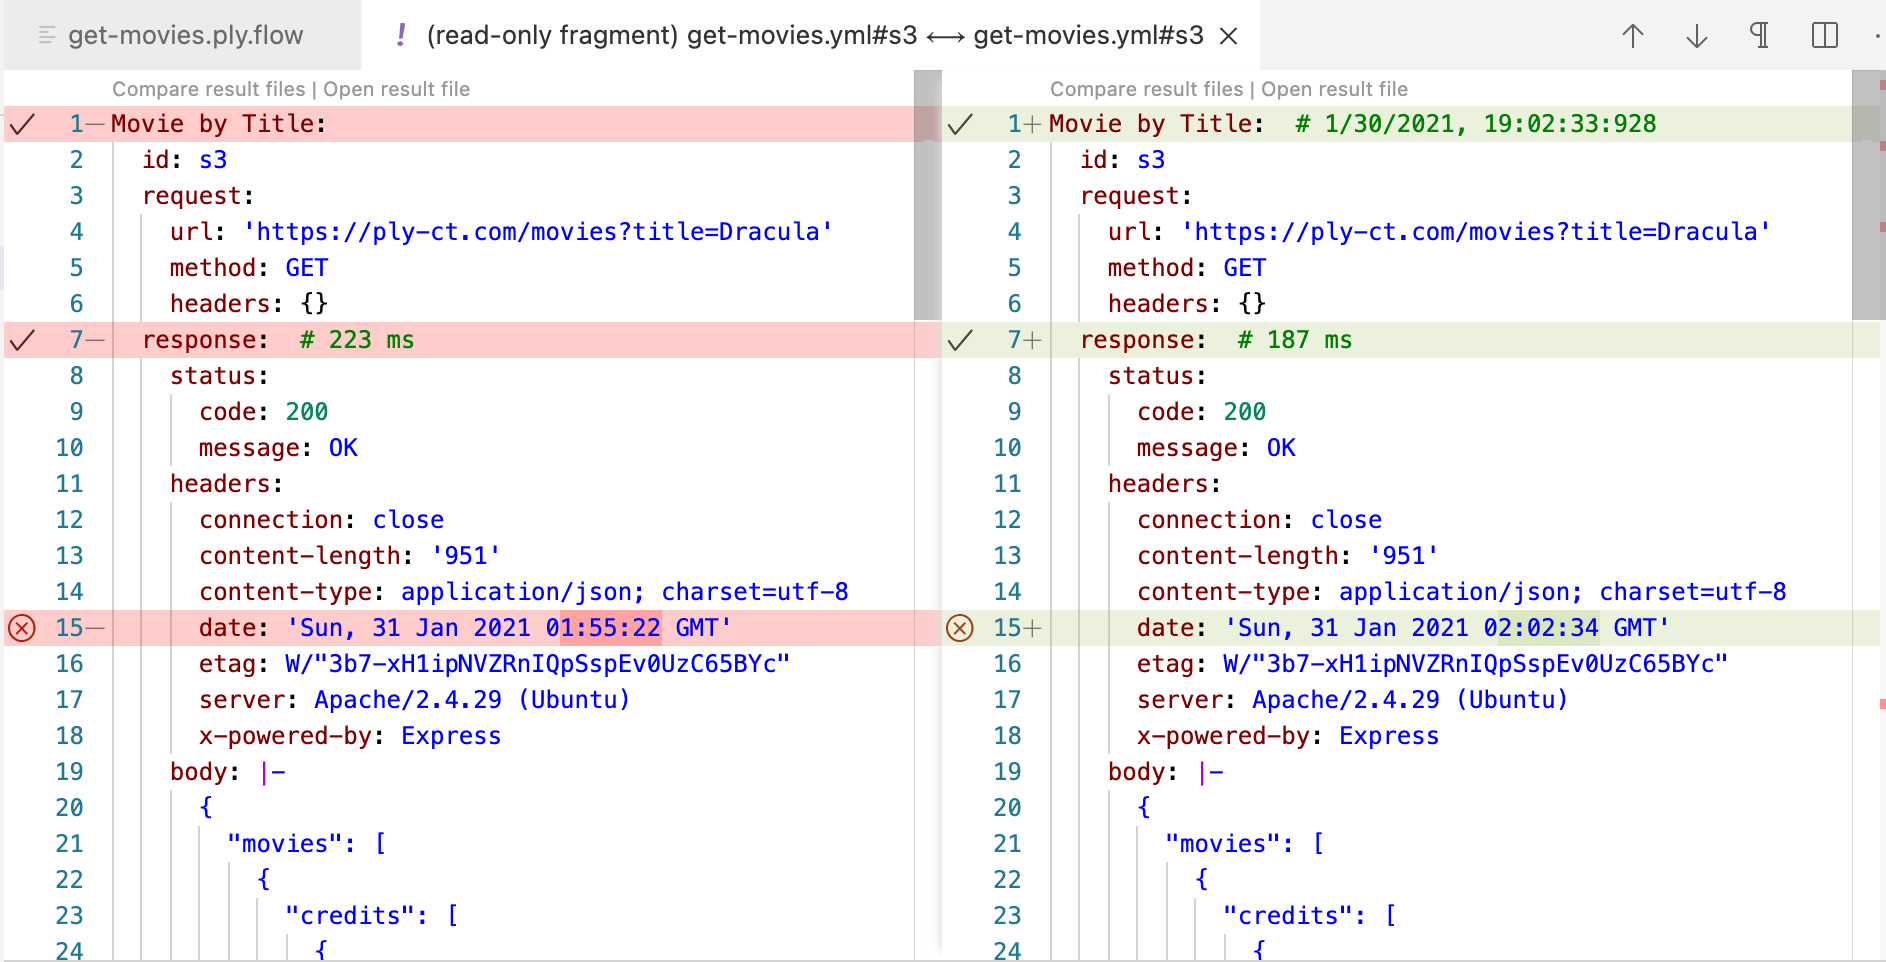
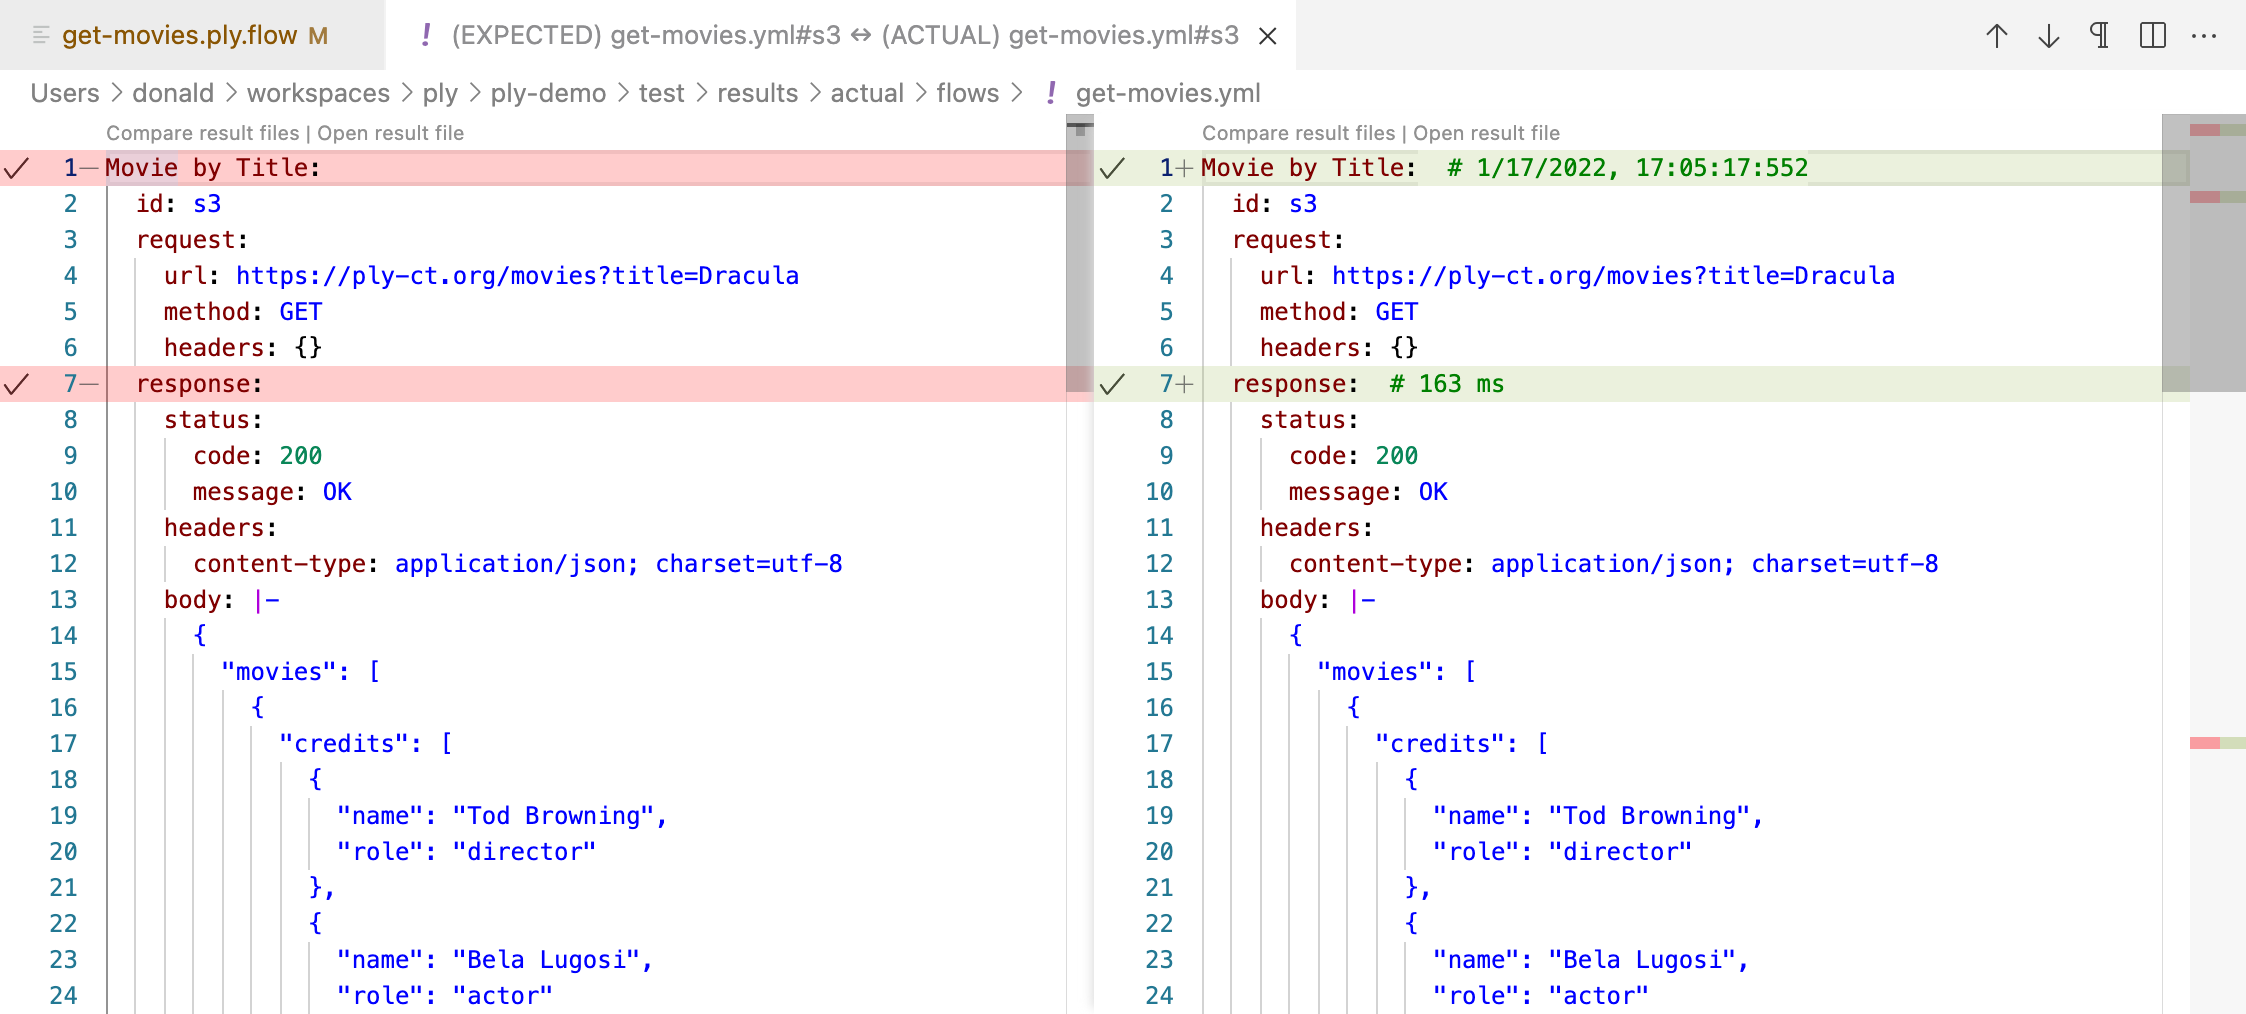
docs

Changed region(s): [[0.0, 0.0, 1.0, 1.0], [0.8918, 0.0312, 0.9841, 0.0624], [0.9533, 0.7173, 1.0, 0.7484]]

diff --git a/docs/_includes/header.html b/docs/_includes/header.html
@@ -9,7 +9,7 @@
     <a href="{{site.baseurl}}/why-ply" {% if navgroup == 'why-ply.html' %}class="active-group"{% endif %}>Why Ply?</a>
     <a href="{{site.baseurl}}/topics/intro" {% if navgroup == 'topics' and navpage == 'intro' %}class="active-group" {% endif %}>Getting Started</a>
     <a href="{{site.baseurl}}/topics/install" {% if navgroup == 'topics' and navpage == 'install' %}class="active-group"{% endif %}>Installation</a>
-    <a href="{{site.baseurl}}/topics/flows" {% if navgroup == 'topics' and navpage != 'intro' and navpage != 'install' %}class="active-group"{% endif %}>Guide</a>
+    <a href="{{site.baseurl}}/topics/requests" {% if navgroup == 'topics' and navpage != 'intro' and navpage != 'install' %}class="active-group"{% endif %}>Guide</a>
     <a href="{{site.baseurl}}/api" {% if navgroup == 'api.html' %}class="active-group"{% endif %}>API</a>
   </nav>
 

diff --git a/docs/topics/flows.md b/docs/topics/flows.md
@@ -14,7 +14,7 @@ layout: topic
 1. Expand the Flows group in Test Explorer, and you should see get-movies.ply.flow.
 
 ## Run your flow
-1. In Ply's flow diagram toolbar (or in the Test Explorer item hover menu), click the run icon:
+1. In Ply's flow diagram toolbar (or in the Test Explorer item hover menu), click the run icon:  
    <img src="../img/run.svg" alt="Run Icon" class="icon-img">  
    When prompted, select "Submit without verifying" (*Submit* is Ply-speak for "don't check run results").
 1. To show flow/step statuses, the diagram automatically switches to Inspect mode, indicated by this icon in the toolbar mode dropdown:
@@ -32,7 +32,7 @@ layout: topic
 
 ## Add a Request step to your flow
 The idea of Ply is to test an API by submitting HTTP requests and validating results. That's where Request steps come in.
-1. Switch back to Select mode using the flow toolbar dropdown:
+1. Switch back to Select mode using the flow toolbar dropdown:  
    <img src="../img/select.png" alt="Select Mode Icon" class="icon-img" style="width:22px;">
 1. Remove the link joining Start to Stop by selecting it and hitting the Delete key.
 1. From Ply's toolbox view to the right of our diagram, drag in the step that's labeled *Request*. Position it somewhere
@@ -41,11 +41,11 @@ The idea of Ply is to test an API by submitting HTTP requests and validating res
 1. If you double-click on the Request step somewhere other than its label, Ply Configurator pops up. After renaming, double-click "Movie by Title"
    (or right-click and select Configure). Then enter this for its URL: {% include copy_to_clipboard.html text="https://ply-ct.org/movies?title=Dracula" %}  
    <img src="../img/get-dracula.png" alt="Movie by Title" width="888px">  
-   This points to [ply-movies](https://github.com/ply-ct/ply-movies#readme), Ply's playground REST API containing a few hundred horror movies
+   This points to [ply-movies](https://github.com/ply-ct/ply-movies#readme), our playground REST API containing horror movies
    from the 1930s.
 
 ## Draw links between flow steps
-1. To draw new links, switch to Connect mode:
+1. To draw new links, switch to Connect mode:  
    <img src="../img/connect.png" alt="Connect Mode Icon" class="icon-img" style="width:22px;">  
 1. Then click/drag your mouse to draw a link between Start and "Movie by Title".
 1. Do the same between "Movie by Title" and Stop.
@@ -57,25 +57,17 @@ The idea of Ply is to test an API by submitting HTTP requests and validating res
    executed get-movies.ply.flow, created actual runtime results, and then copied those results to create an expected-results
    file before comparing.
 1. Double-click the "Movie by Title" step to inspect its Request and Response.
-1. Run your flow again - you won't get prompted since expected results now exist. This time the flow fails, and "Movie by Title"
-   is bordered in red.
-1. To understand why the test failed, right-click on "Movie by Title" and select "Compare Results":  
-   <img src="../img/get-movies-1-results.png" alt="get-movies-1 Results" width="943px">  
-   VS Code's diff editor indicates there are a few discrepancies between expected (on the left) versus actual (on the right)
-   results. Lines 1 and 7 both differ, but these differences are only comments; hence the checkmark in
-   the left gutter of the editor. However, line 15 has a significant difference in 'date' header values.
-1. To fix this, scroll to the top of the (left-hand) expected editor, and click the [Code Lens](https://code.visualstudio.com/blogs/2017/02/12/code-lens-roundup)
-   labeled "Open result file". (The full expected-results file includes outcomes for Start and Stop, so the line numbers are different from 
-   the "Movie by ID" result fragment.) Remove the 'date' header (all of line 18). In fact, remove these header lines as well:
-     - connection
-     - content-length
-     - etag
-     - server
-     - x-powered-by
-
-   You're left with just 'content-type', which is the only response header we care about matching. When Ply submits a request, for
-   comparison it captures just those response headers that appear in expected results. This makes it convenient to exclude unimportant headers.
-1. Save and close the expected results and comparison editors; then re-run get-movies.ply.flow. This time it should succeed.
+1. Run your flow again. This time you won't get prompted since expected results now exist.
+1. Right-click on "Movie by Title" and select "Compare Results":  
+   <img src="../img/get-movies-1-results.png" alt="get-movies-1 Results" width="1123px">  
+   VS Code's diff editor indicates there are a couple discrepancies between expected results (on the left) versus actual (on the right). 
+   Lines 1 and 7 both differ, but these differences are only comments; hence the checkmark in the left gutter of the editor.
+1. Let's modify expected results to purposely break our test flow. In the left-hand editor, change the director credit from `Tod Browing` to `James Whale`,
+   and save. Then close the result files and run the flow again. This time the flow fails, and "Movie by Title" is bordered in red. Compare results again:  
+   <img src="../img/get-movies-1-result-mismatch.png" alt="get-movies-1 Result mismatch" width="1161px">  
+   Now line 19 shows a significant difference.
+1. Fix the director credit in expected results, save and close the expected results and comparison editors; then re-run get-movies.ply.flow. 
+   Make sure the test passes this time.
 
 ## Use input values in a flow
 [Values](values) let you externalize parts of your requests and results, making them dynamic as well as reusable. For example: you might want to run
@@ -187,7 +179,7 @@ to test it without running the whole flow. Let's run the "Movie by ID" step that
 1. This time when you're prompted for values, you'll observe that `${@s3.response.body.movies[0].id}` is required,
    and that Ply knows this value from our previous flow run.  
    <img src="../img/movie-by-id-values.png" alt="Values prompt" width="695px">  
-1. Double-click "Movie by ID" to review its request and response to make sure they're as expected.
+1. Double-click "Movie by ID" to review its request and response to make sure they're as expected.  
    <img src="../img/movie-by-id-response.png" alt="Movie by ID response" width="760px">  
 
 Next Topic: [Requests](requests)

diff --git a/docs/topics/requests.md b/docs/topics/requests.md
@@ -9,8 +9,12 @@ Each request represents an HTTP request with these elements:
   - headers
   - body
 
-A request suite is a YAML file containing one or more named requests. Here's an example from 
-movie-queries.ply.yaml in the [ply-demo](https://github.com/ply-ct/ply-demo) project:
+Requests are saved as YAML files. Files with the `.ply` extension contain a single request and can be edited visually
+using the [Ply VS Code extension](https://marketplace.visualstudio.com/items?itemName=ply-ct.vscode-ply):
+<img src="../img/request-get-movie-by-title.png" alt="Request: get-movie-by-title" width="928px">
+
+A request suite is a standard YAML file (`.yml`, `.yaml`) containing one or more named requests to be executed in sequence.
+Here's an example from movie-queries.ply.yaml in the [ply-demo](https://github.com/ply-ct/ply-demo) project:
 ```yaml
 moviesByYearAndRating:
   url: '${baseUrl}/movies?year=${year}&rating=${rating}'
@@ -18,9 +22,8 @@ moviesByYearAndRating:
   headers:
     Accept: application/json
 ```
-This defines a GET request against [ply-movies](https://github.com/ply-ct/ply-movies#readme), an
-example API we use to illustrate Ply testing. Our request's name, `moviesByYearAndRating`,
-is the top-level key. Note our use of JavaScript [template literal](https://developer.mozilla.org/en-US/docs/Web/JavaScript/Reference/Template_literals)
+This defines a GET request against [ply-movies](https://github.com/ply-ct/ply-movies#readme), our example API containing horror
+movies from the 1930s. Our request's name, `moviesByYearAndRating`, is the top-level key. Note our use of JavaScript [template literal](https://developer.mozilla.org/en-US/docs/Web/JavaScript/Reference/Template_literals)
 expressions embedded in `url`. Every element of a request can be parameterized using [Values](values).
 
 The next request in this suite illustrates another important feature of expressions:
@@ -117,5 +120,21 @@ You'll receive an HTTP 401 (Unauthorized) response unless you include the `githu
 somewhere in your [values](values). Follow the [GitHub token guide](https://docs.github.com/en/github/authenticating-to-github/creating-a-personal-access-token)
 to obtain your personal access token. This is a good candidate for your [PLY_VALUES](values#environment-variable) 
 environment variable, since you don't want to share your access token in version control.
+
+## Multipart Form Data
+Here's an example showing how to upload multipart/form-data attachments from files:
+```yaml
+createAttachments:
+  url: ${baseUrl}/attachments
+  method: POST
+  headers:
+    Content-Type: multipart/form-data;boundary="--boundary"
+  body: |-
+    --boundary
+    Content-Disposition: form-data; name="textFile"; filename="test/ply/attachments/myText.txt"
+    --boundary
+    Content-Disposition: form-data; name="binaryFile"; filename="test/ply/attachments/mySelfie.png"
+    --boundary--
+```
 
 Next Topic: [Results](results)

diff --git a/docs/index.md b/docs/index.md
@@ -20,7 +20,7 @@ Ply is simply a more intuitive way to automate REST and GraphQL API testing.
       <h2>Techniques</h2>
       <ul>
         <li>Ply works over HTTP and doesn't care what platform your API runs on</li>
-        <li>Three different types of test artifacts: <a href="topics/flows">Flows</a>, <a href="topics/requests">Requests</a>, and <a href="topics/cases">Cases</a></li>
+        <li>Three different types of test artifacts:  <a href="topics/requests">Requests</a>, <a href="topics/flows">Flows</a>, and <a href="topics/cases">Cases</a></li>
         <li>Expected results are YAML files, compared with actual results during verification</li>
         <li>Auto-generate result files by capturing actual good responses</li>
         <li>Reference environment values and/or upstream response props using <a href="https://developer.mozilla.org/en-US/docs/Web/JavaScript/Reference/Template_literals">template expressions</a></li>

diff --git a/docs/topics/install.md b/docs/topics/install.md
@@ -3,11 +3,6 @@ layout: topic
 ---
 # Installation
 
-## Node.js
-This is a prerequisite for installing Ply.
-1. Install Node.js:
-   <https://nodejs.org/en/download/>
-
 ## VS Code Extension
 Use Ply interactively through [VS Code](https://code.visualstudio.com/).
 1. Install Visual Studio Code:
@@ -33,7 +28,7 @@ Install Ply through [npm](https://www.npmjs.com/package/ply-ct) to use the CLI.
    ```
    npm install --save-dev @ply-ct/ply
    ```
-   Then you can run ply in your project directory through `npx`:
+   Then you can run ply in your project directory through `npx` or an npm script:
    ```
    npx ply --version
    ```
